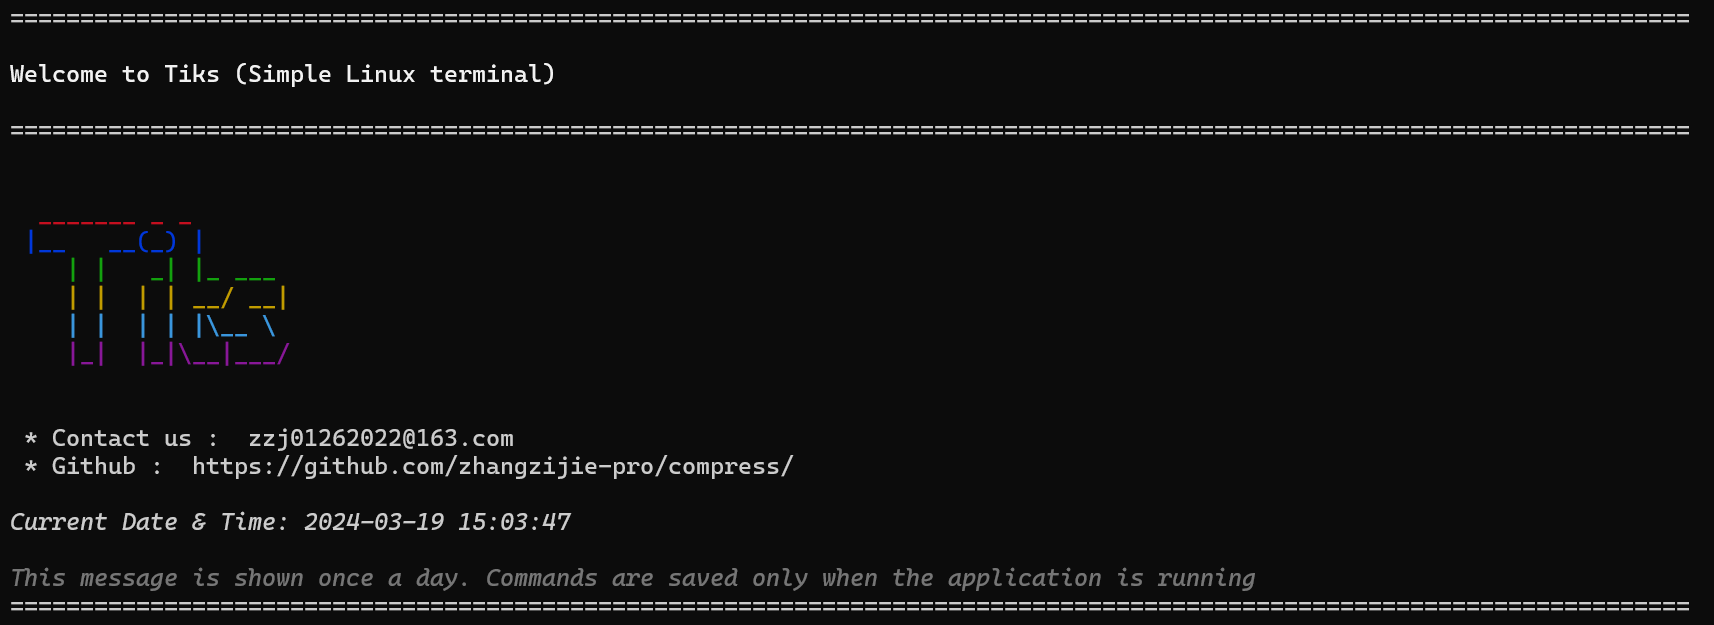
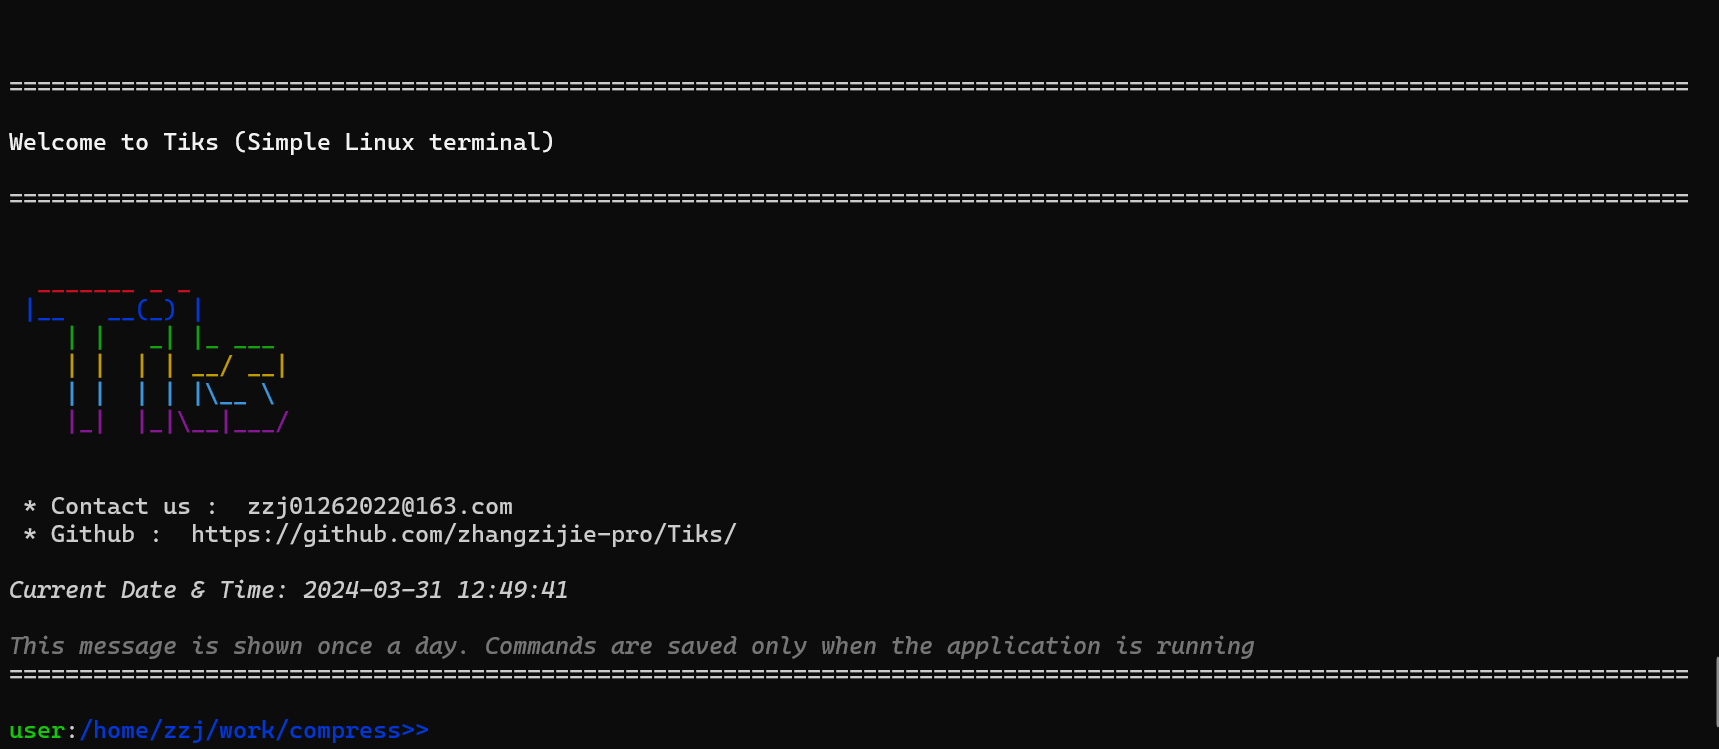
image

diff --git a/command/src/start_logo.rs b/command/src/start_logo.rs
@@ -17,7 +17,7 @@ pub fn strat_logo(){
 "#
     );
 println!("  * Contact us :  zzj01262022@163.com");
-println!("  * Github :  https://github.com/zhangzijie-pro/compress/");
+println!("  * Github :  https://github.com/zhangzijie-pro/Tiks/");
 println!("This message is shown once a day. Commands are saved only when the application is running")
 }
 
@@ -96,7 +96,7 @@ pub fn start_logo() {
     println!(
         "{}{}{}",
         color::Fg(color::Reset),
-        " * Github :  https://github.com/zhangzijie-pro/compress/",
+        " * Github :  https://github.com/zhangzijie-pro/Tiks/",
         style::Reset
     );
     println!();
